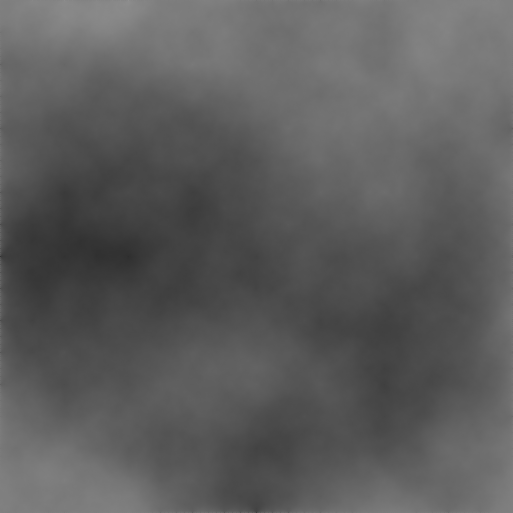
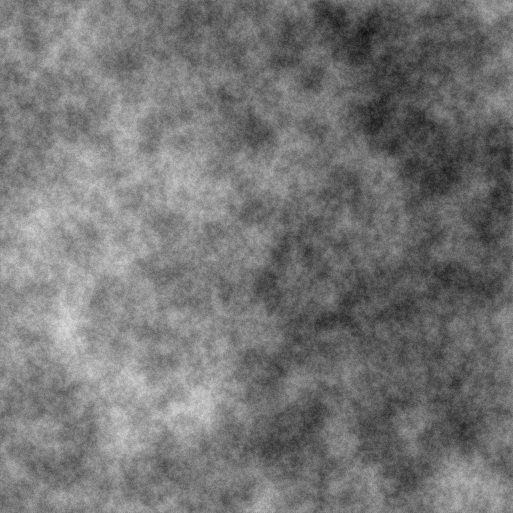
Updated README and test image

diff --git a/README.md b/README.md
@@ -1,14 +1,26 @@
 # heightmap-gen
 
-A Clojure library designed to ... well, that part is up to you.
+A simple Clojure library for doing basic heightmap generation for games or 
+other graphical programs.
+
+Heightmaps are generated as a grayscale image of NxN pixels where N = 2^x + 1 
+for some x. Can be run directly to generate PNG files, or can be called 
+as a library to generate the image as a 1D vector of floating-point numbers.
+
+Functionality included at time of writing:
+- Diamond-square algorithm
+- White noise function
+- Various basic filters
+
+![Example heightmap](https://raw.githubusercontent.com/brundonsmith/heightmap-gen/master/test.png)
 
 ## Usage
 
-FIXME
+TODO
 
 ## License
 
-Copyright © 2019 FIXME
+Copyright © 2019 Brandon Smith
 
 This program and the accompanying materials are made available under the
 terms of the Eclipse Public License 2.0 which is available at
